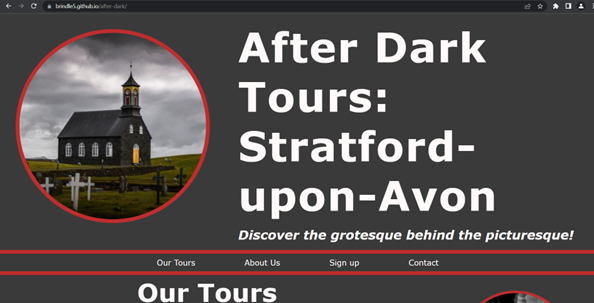
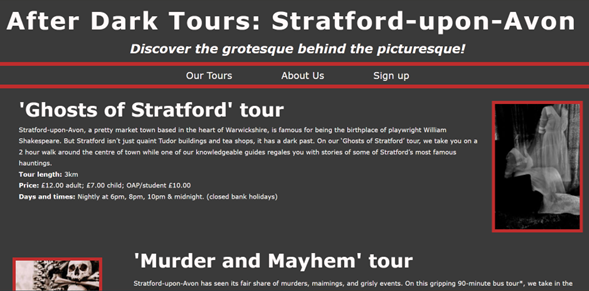
Add new testing screenshots to readme.

diff --git a/assets/css/style.css b/assets/css/style.css
@@ -20,6 +20,10 @@ body {
     color: snow;   
 }
 
+p {
+    font-size: 1.25rem;
+}
+
 .display {
     display: flex;
     flex-direction: row;
@@ -118,7 +122,7 @@ nav > ul > li a:hover {
 #about-us-heading {
     font-weight: 700;
     font-size: 3rem;
-    padding-left: 20rem;
+    padding-left: 3rem;
     padding-top: 1.5rem;
     padding-bottom: 0.6rem;    
 }

diff --git a/README.md b/README.md
@@ -171,7 +171,6 @@ Alternatively, if using Gitpod, you can click below to create your own workspace
 
 The photos are from [pexels.com](https://www.pexels.com/) and [unsplash.com](https://unsplash.com/).
 
-* [creepy_church.jpg](https://www.pexels.com/photo/photo-of-church-during-daytime-3321255/)
 * [ghosts.jpg](https://unsplash.com/photos/MTI-La8-eTA)
 * [tower_of_bones.jpg](https://www.pexels.com/photo/decoration-made-with-human-skulls-4997839/)
 * [scary_faces.jpg](https://www.pexels.com/photo/lighted-jack-o-lantern-decors-619420/)
